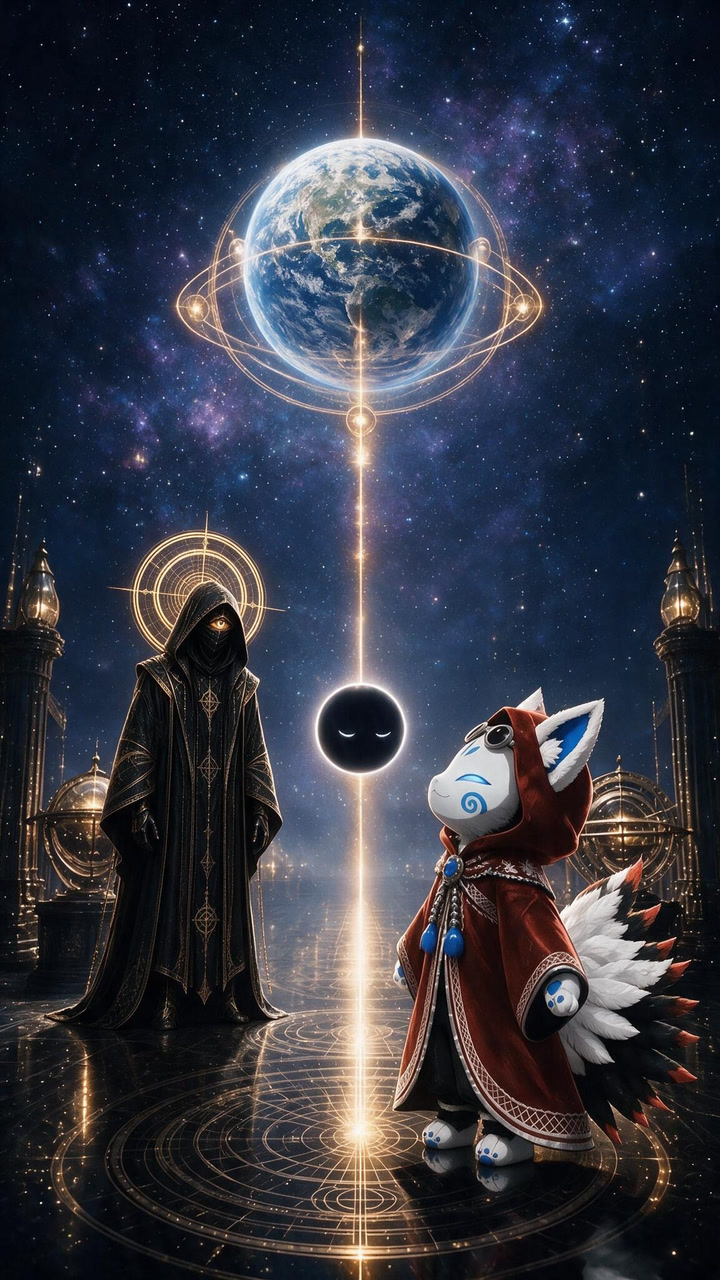
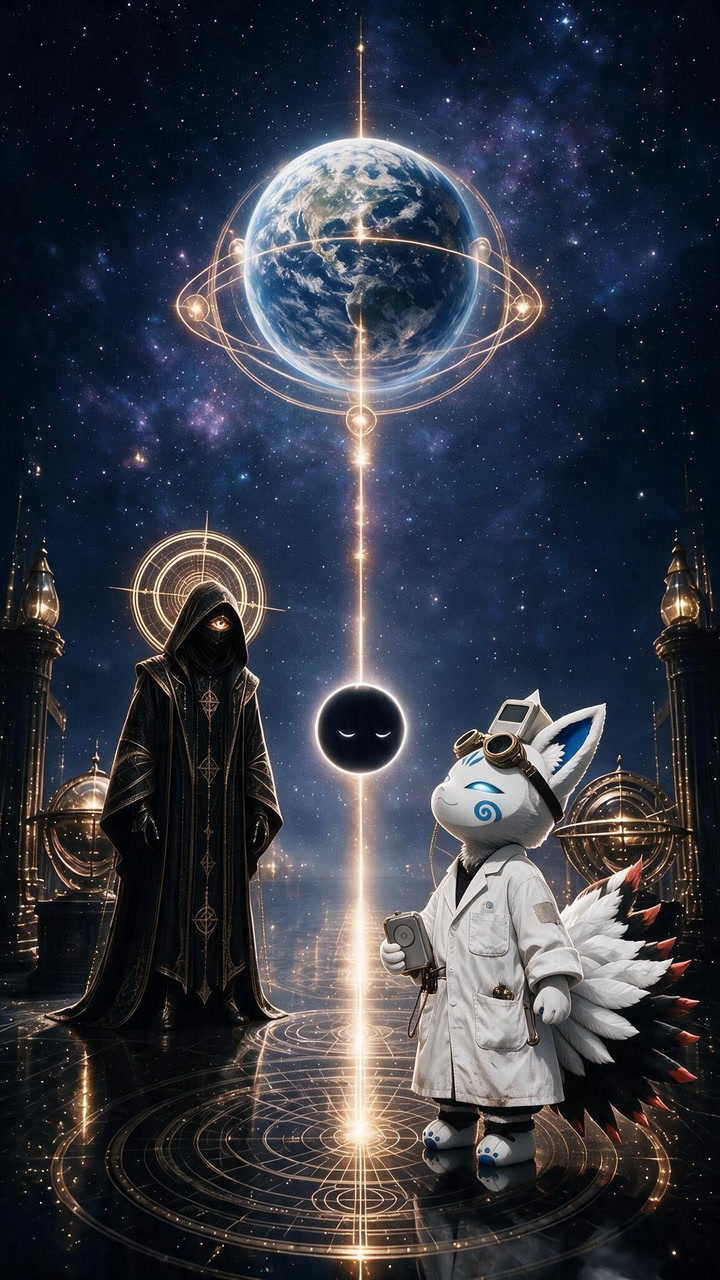
UI art: new pictures [skip ci]

diff --git a/apps/web/public/onboarding/s/last-run.md b/apps/web/public/onboarding/s/last-run.md
@@ -1,27 +1,13 @@
-# UI art — 2026-10-26T03:05:31.259Z
+# UI art — 2026-10-26T05:37:32.375Z
 
-Seedream 5.0 Pro / 23枚 / 約38円
+Seedream 5.0 Pro / 9枚 / 約22円
 
-- ⏸ kimorin-iu-shock-glow: 元の絵ができなかったので次回
-- ⏸ kimorin-iu-shock-notail: 元の絵ができなかったので次回
-- ⏸ kimorin-iu-shock-o: 元の絵ができなかったので次回
-- ✅ d2-gate-inside-kimorin-leave
-- ✅ d2-gate-two-inside
-- ✅ d2-hall-dark-kimorin
-- ✅ d2-hall-kimorin
-- ✅ d2-hall-run
-- ✅ d2-hall-sky
+- ✅ d2-hall-kimorin-up
+- ✅ d2-hall-sky-monban
 - ✅ d2-kimorin-close-in
-- ✅ d2-moon-kimorin
-- ✅ d2-pinpon
-- ✅ d2-rocket-in
-- ✅ kimorin-i-talk-notail
-- ✅ kimorin-iu-point-notail
-- ✅ kimorin-iu-think
-- ✅ kimorin-iu-think-glow
-- ✅ kimorin-iu-think-notail
-- ✅ kimorin-iu-think-o
-- ❌ d2-hall-sky-monban: Error: 500 {"data":[{"taskType":"imageInference","imageUUID":"24eb3515-afbc-4def-b16f-e4e1928d16aa","taskUUID":"c3c31e06-c914-4f47-8ae8-4cde7672940a","cost":0.05136,"seed":1701379484,"imageURL":"https://im.runware.ai/image/os/a06dlim3/ws/3/ii/24eb3515-afbc-4def-b16f-e4e1928d16aa.jpg"}]}
-- ❌ kimorin-i-think-o: Error: 500 {"data":[{"taskType":"imageInference","imageUUID":"0145a59e-2c8f-4af6-9313-2d9be1ef6140","taskUUID":"c92de407-94ee-47b4-ba7c-e38c98f6f6a9","cost":0.04815,"seed":2070714395,"imageURL":"https://im.runware.ai/image/os/a06dlim3/ws/3/ii/0145a59e-2c8f-4af6-9313-2d9be1ef6140.jpg"}]}
-- ❌ kimorin-iu-point-glow: Error: 500 {"data":[{"taskType":"imageInference","imageUUID":"1c993997-64b3-4d6e-a12a-e92c46b29cae","taskUUID":"3793406f-2f5f-4ea5-b0d3-79c6bfc9a749","cost":0.04815,"seed":287275577,"imageURL":"https://im.runware.ai/image/os/a06dlim3/ws/3/ii/1c993997-64b3-4d6e-a12a-e92c46b29cae.jpg"}]}
-- ❌ kimorin-iu-shock: Error: 500 {"data":[{"taskType":"imageInference","imageUUID":"74b41065-d9e2-4c79-a91a-d6e6d52c4ab5","taskUUID":"c580b386-637c-4d33-afb7-5fff113f1dbd","cost":0.04815,"seed":391530612,"imageURL":"https://im.runware.ai/image/os/a06dlim3/ws/3/ii/74b41065-d9e2-4c79-a91a-d6e6d52c4ab5.jpg"}]}
+- ✅ kimorin-i-think-o
+- ✅ kimorin-iu-point-glow
+- ✅ kimorin-iu-shock
+- ✅ kimorin-iu-shock-glow
+- ✅ kimorin-iu-shock-notail
+- ✅ kimorin-iu-shock-o

diff --git a/apps/web/public/atelier/raw/last-run.md b/apps/web/public/atelier/raw/last-run.md
@@ -1,4 +1,4 @@
-# UI art — 2026-10-26T03:05:31.297Z
+# UI art — 2026-10-26T05:37:32.415Z
 
 Seedream 5.0 Pro / 0枚 / 約0円
 

diff --git a/apps/web/public/dj/art/last-run.md b/apps/web/public/dj/art/last-run.md
@@ -1,4 +1,4 @@
-# UI art — 2026-10-26T02:59:13.940Z
+# UI art — 2026-10-26T05:34:46.521Z
 
 Seedream 5.0 Pro / 0枚 / 約0円
 

diff --git a/apps/web/public/ui/parts/raw/last-run.md b/apps/web/public/ui/parts/raw/last-run.md
@@ -1,4 +1,4 @@
-# UI art — 2026-10-26T03:05:31.332Z
+# UI art — 2026-10-26T05:37:32.449Z
 
 Seedream 5.0 Pro / 0枚 / 約0円
 
